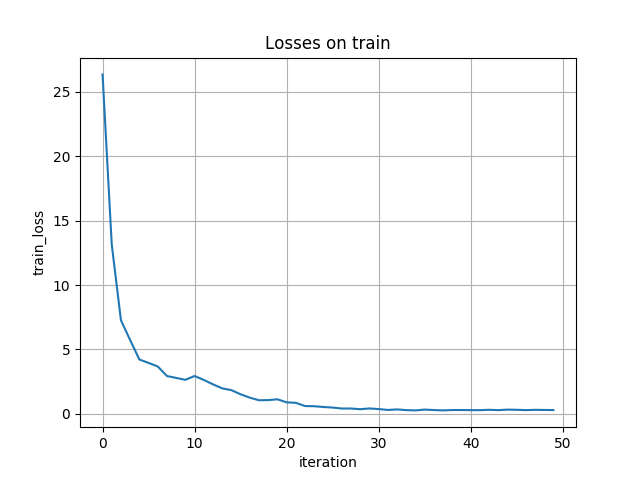
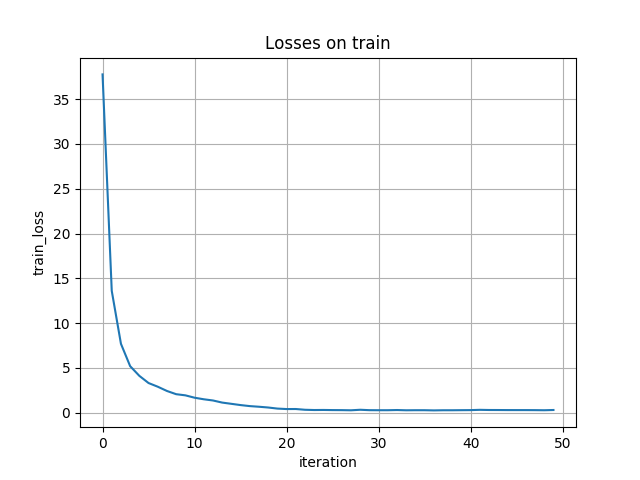
codify dataloader and solve unbalanced data problem

diff --git a/data_loader.py b/data_loader.py
@@ -1,6 +1,7 @@
 import os
 import cv2
 import numpy as np
+import random
 
 
 class SiameseImageLoader:
@@ -18,10 +19,11 @@ class SiameseImageLoader:
         self.augmentations = augmentations
         self.current_idx = {d: 0 for d in data_subsets}
         self._load_images_paths()
+        self.classes = list(set(self.images_labels['train']))
+        self.n_classes = len(self.classes)
         self.n_samples = {d: len(self.images_paths[d]) for d in data_subsets}
-        self.indexes = {d: np.arange(self.n_samples[d]) for d in data_subsets}
-        for d in self.data_subsets:
-            np.random.shuffle(self.indexes[d])
+        self.indexes = {d: {cl: np.where(np.array(self.images_labels[d]) == cl)[
+            0] for cl in self.classes} for d in data_subsets}
 
     def _load_images_paths(self):
         for d in self.data_subsets:
@@ -33,40 +35,62 @@ class SiameseImageLoader:
                         self.images_paths[d].append(root+'/'+f)
                         self.images_labels[d].append(root.split('/')[-1])
 
-    def get_batch(self, batch_size, s="train"):
-        if self.current_idx[s] + 2*batch_size >= self.n_samples[s]:
-            np.random.shuffle(self.indexes[s])
-            self.current_idx[s] = 0
+    def _get_pair(self, cl1, cl2, idx1, idx2, s='train', with_aug=True):
+        indx_1 = self.indexes[s][cl1][idx1]
+        indx_2 = self.indexes[s][cl2][idx2]
+        img_1 = cv2.imread(self.images_paths[s][indx_1])
+        img_2 = cv2.imread(self.images_paths[s][indx_2])
+        if self.input_shape:
+            img_1 = cv2.resize(
+                img_1, (self.input_shape[0], self.input_shape[1]))
+            img_2 = cv2.resize(
+                img_2, (self.input_shape[0], self.input_shape[1]))
+        if with_aug:
+            img_1 = self.augmentations(image=img_1)['image']
+            img_2 = self.augmentations(image=img_2)['image']
+        return img_1, img_2
 
-        pairs_1 = []
-        pairs_2 = []
-
+    def get_batch(self, batch_size, s='train'):
+        pairs = [np.zeros((batch_size, self.input_shape[0], self.input_shape[1], 3)), np.zeros(
+            (batch_size, self.input_shape[0], self.input_shape[1], 3))]
         targets = np.zeros((batch_size,))
-        for i in range(batch_size):
-            indx_1 = self.indexes[s][self.current_idx[s] + 2 * i]
-            indx_2 = self.indexes[s][self.current_idx[s] + 2 * i + 1]
-            img_1 = cv2.imread(
-                self.images_paths[s][indx_1])
-            img_2 = cv2.imread(
-                self.images_paths[s][indx_2])
-            if self.input_shape:
-                img_1 = cv2.resize(
-                    img_1, (self.input_shape[0], self.input_shape[1]))
-                img_2 = cv2.resize(
-                    img_2, (self.input_shape[0], self.input_shape[1]))
-            if s == 'train' and self.augmentations:
-                img_1 = self.augmentations(image=img_1)['image']
-                img_2 = self.augmentations(image=img_2)['image']
 
-            pairs_1.append(img_1)
-            pairs_2.append(img_2)
+        n_same_class = batch_size // 2
 
-            if self.images_labels[s][indx_1] == self.images_labels[s][indx_2]:
-                targets[i] = 1
-            else:
-                targets[i] = 0
-        self.current_idx[s] += 2*batch_size
-        pairs = [np.array(pairs_1), np.array(pairs_2)]
+        selected_class_idx = random.randrange(0, self.n_classes)
+        selected_class = self.classes[selected_class_idx]
+        selected_class_n_elements = len(self.indexes[s][selected_class])
+
+        indxs = np.random.randint(
+            selected_class_n_elements, size=batch_size)
+
+        with_aug = s == 'train' and self.augmentations
+        count = 0
+        for i in range(n_same_class):
+            idx1 = indxs[i]
+            idx2 = (idx1 + random.randrange(1, selected_class_n_elements)
+                    ) % selected_class_n_elements
+            img1, img2 = self._get_pair(
+                selected_class, selected_class, idx1, idx2, s=s, with_aug=with_aug)
+            pairs[0][count, :, :, :] = img1
+            pairs[1][count, :, :, :] = img2
+            targets[i] = 1
+            count += 1
+
+        for i in range(n_same_class, batch_size):
+            another_class_idx = (
+                selected_class_idx + random.randrange(1, self.n_classes)) % self.n_classes
+            another_class = self.classes[another_class_idx]
+            another_class_n_elements = len(self.indexes[s][another_class])
+            idx1 = indxs[i]
+            idx2 = random.randrange(0, another_class_n_elements)
+            img1, img2 = self._get_pair(
+                selected_class, another_class, idx1, idx2, s=s, with_aug=with_aug)
+            pairs[0][count, :, :, :] = img1
+            pairs[1][count, :, :, :] = img2
+            targets[i] = 0
+            count += 1
+
         return pairs, targets
 
     def generate(self, batch_size, s="train"):

diff --git a/model.py b/model.py
@@ -151,6 +151,8 @@ class SiameseNet:
         train_losses_epochs = []
         val_accuracies_epochs = []
         val_losses_epochs = []
+        best_val_loss = 0.0
+        current_loss = 0.0
         tensorboard_names = ['train_loss', 'train_acc', 'val_loss', 'val_acc']
         for j in range(epochs):
             train_accuracies_it = []
@@ -197,6 +199,7 @@ class SiameseNet:
             pairs, targets = next(generator)
             val_loss_it, val_accuracy_it = self.model.test_on_batch(
                 pairs, targets)
+            print(targets)
             val_accuracies_it.append(val_accuracy_it)
             val_losses_it.append(val_loss_it)
         val_loss_epoch = sum(val_losses_it) / len(val_losses_it)
